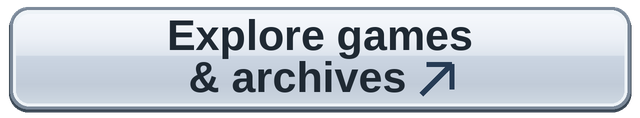
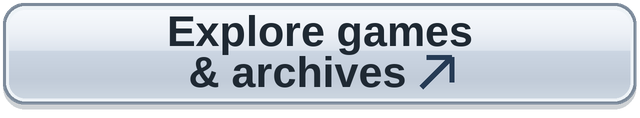
Add files via upload

Changed region(s): [[0.0, 0.0254, 1.0, 0.9661], [0.25, 0.1271, 0.75, 0.8136], [0.375, 0.1271, 0.4062, 0.1525]]

diff --git a/README.md b/README.md
@@ -5,9 +5,7 @@
   <a href="https://wakkatobakka.github.io/"><img src="./assets/apple-bridge/explore-games-and-archives.png" width="49%" alt="Explore games &amp; archives on the Wakkatobakka website"></a>
 </p>
 
-<p align="center"><a href="./GAME_GUIDE.md">Game guide &amp; original IPAs</a></p>
-
-![Original iPhone game artwork: Dead Space, Silent Hill: The Escape, Devil May Cry 4: Refrain, and Chaos Rings.](./assets/apple-bridge/game-dock.png)
+<p align="center"><a href="./GAME_GUIDE.md">Game guide &amp; original IPAs</a> · <a href="#request-a-game">Request a game</a></p>
 
 <p align="center"><strong>Android 11+ / ARM64 · Bring your original game files</strong></p>
 
@@ -16,6 +14,12 @@
 Install the player, import a matching original `.ipa`, and tap its game tile to play. The compatibility bridges are included. Original game files are supplied by you.
 
 [Get started](#download-and-play) · [The games](#the-games) · [See it running](#see-it-running) · [Help](#testing-and-rough-edges) · [About](#why-im-making-this)
+
+## Game library
+
+<p align="center">
+  <a href="./assets/apple-bridge/library-screenshot.jpg"><img src="./assets/apple-bridge/library-screenshot.jpg" width="380" alt="Apple Bridge’s Android game library in Grid view, with a count of 21 games."></a>
+</p>
 
 <a name="download-and-play"></a>
 
@@ -115,6 +119,14 @@ The v0.0.8 public collection contains **21 games**: **11 additions** alongside u
 | [Zombie Infection](GAME_GUIDE.md#zombie-infection) | Gameloft’s third-person zombie action | 0.0.2 |
 
 </details>
+
+## Request a game
+
+Want to play an old iPhone or iPad game in Apple Bridge? Tell me which one. I use these requests to decide what to try next.
+
+[Browse requests by 👍](https://github.com/Wakkatobakka/Apple-Bridge/issues?q=is%3Aissue+%22Game+request%22+in%3Atitle+sort%3Areactions-%2B1-desc) · [Submit a game request](https://github.com/Wakkatobakka/Apple-Bridge/issues/new?template=game-request.yml)
+
+If someone already requested your game, give their opening post a 👍 so the votes stay together.
 
 <a name="testing-and-rough-edges"></a>
 
